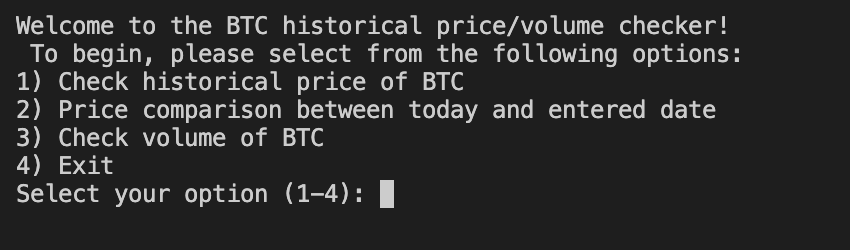
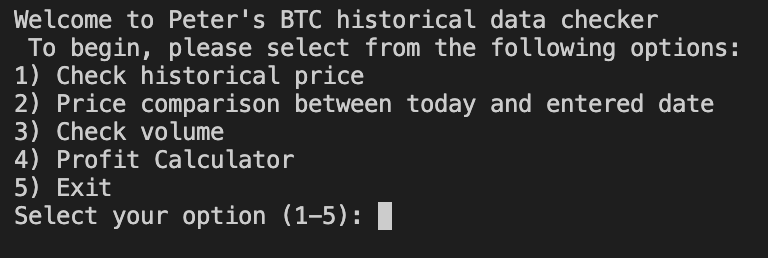
added additional screenshots and readme

Changed region(s): [[0.0, 0.028, 0.9688, 0.896]]

diff --git a/README.md b/README.md
@@ -27,7 +27,9 @@ _\*Warning! Installing the dependencies on your native system may override the c
 
 <br>
 
-### Application Walkthrough
+### Application Walkthrough:
+
+<br>
 
 When the program first runs you will be prompted to a menu:
 
@@ -36,10 +38,16 @@ When the program first runs you will be prompted to a menu:
 - Checks volume of BTC in USDT or BTC at the specified date
 - Profit calculator allows you to see whether you have made a profit or not based on the number of bitcoins you had
 
-![menu](./docs/Options%20menu%20interface.png)
 _Fig 1. Menu_
+![menu](
 
 Using the keyboard, typing options 1-3 will allow you to enter a date:
+<br>
 
-![inputdate](./docs/price%20check%20interface.png)
 _Figure 1.2. Option 1 selected and date provided_
+![Pricecheck](./docs/price%20check%20interface.png)
+
+_Figure 1.3. Option 2 selected and date provided_
+![Pricecomparison](./docs/Price%20comparison%20interface.png)
+
+_Figure 1.4. Option 3 selected and date provided_
